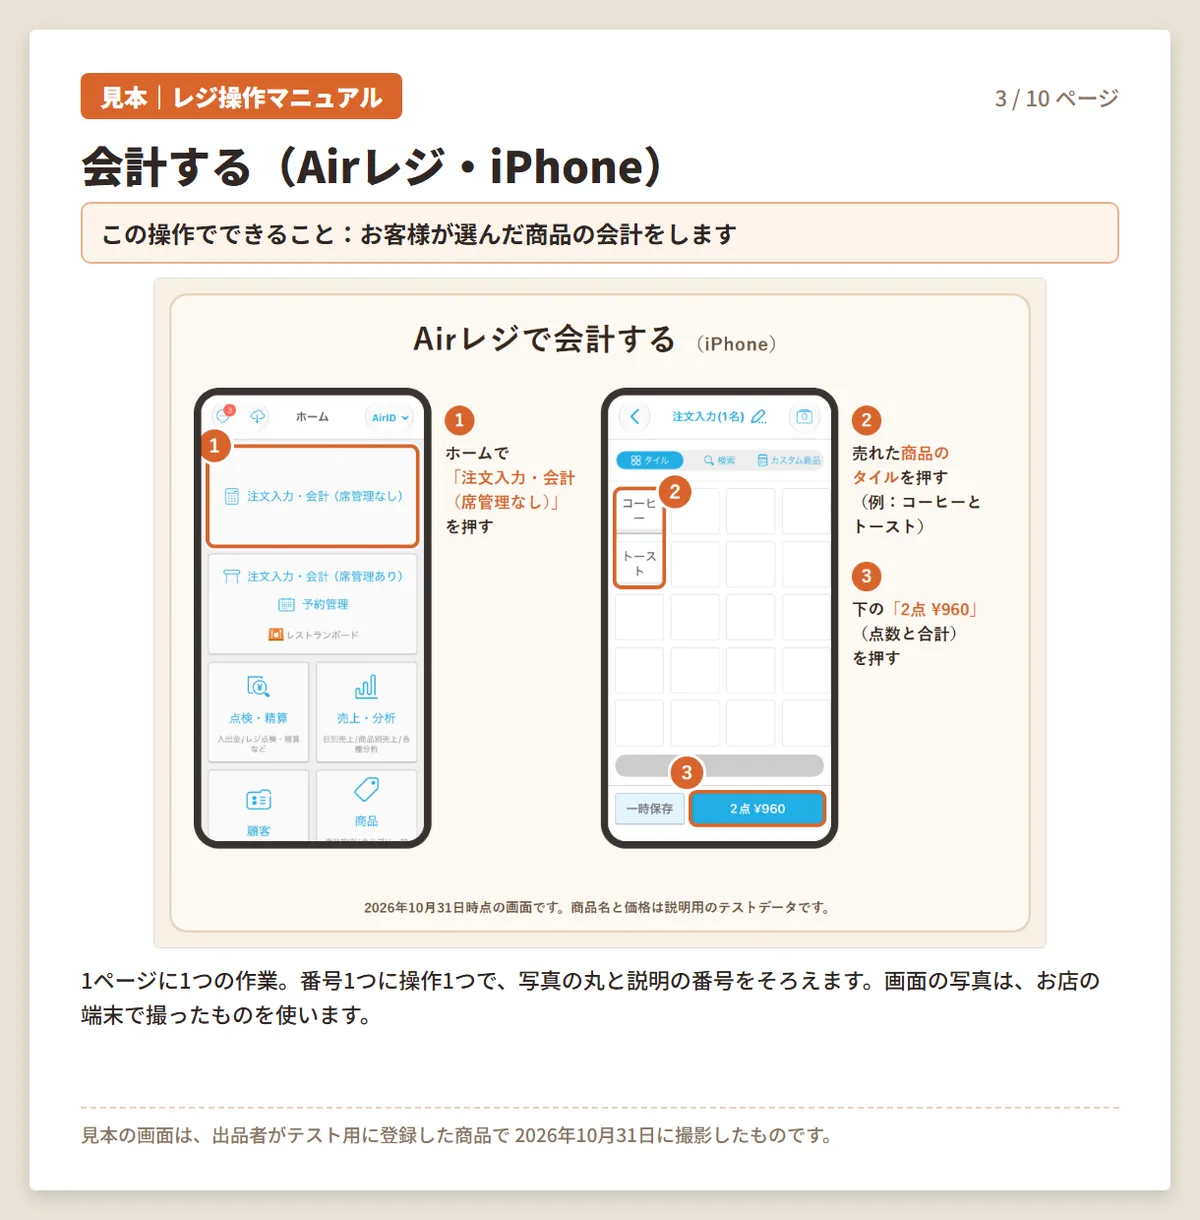
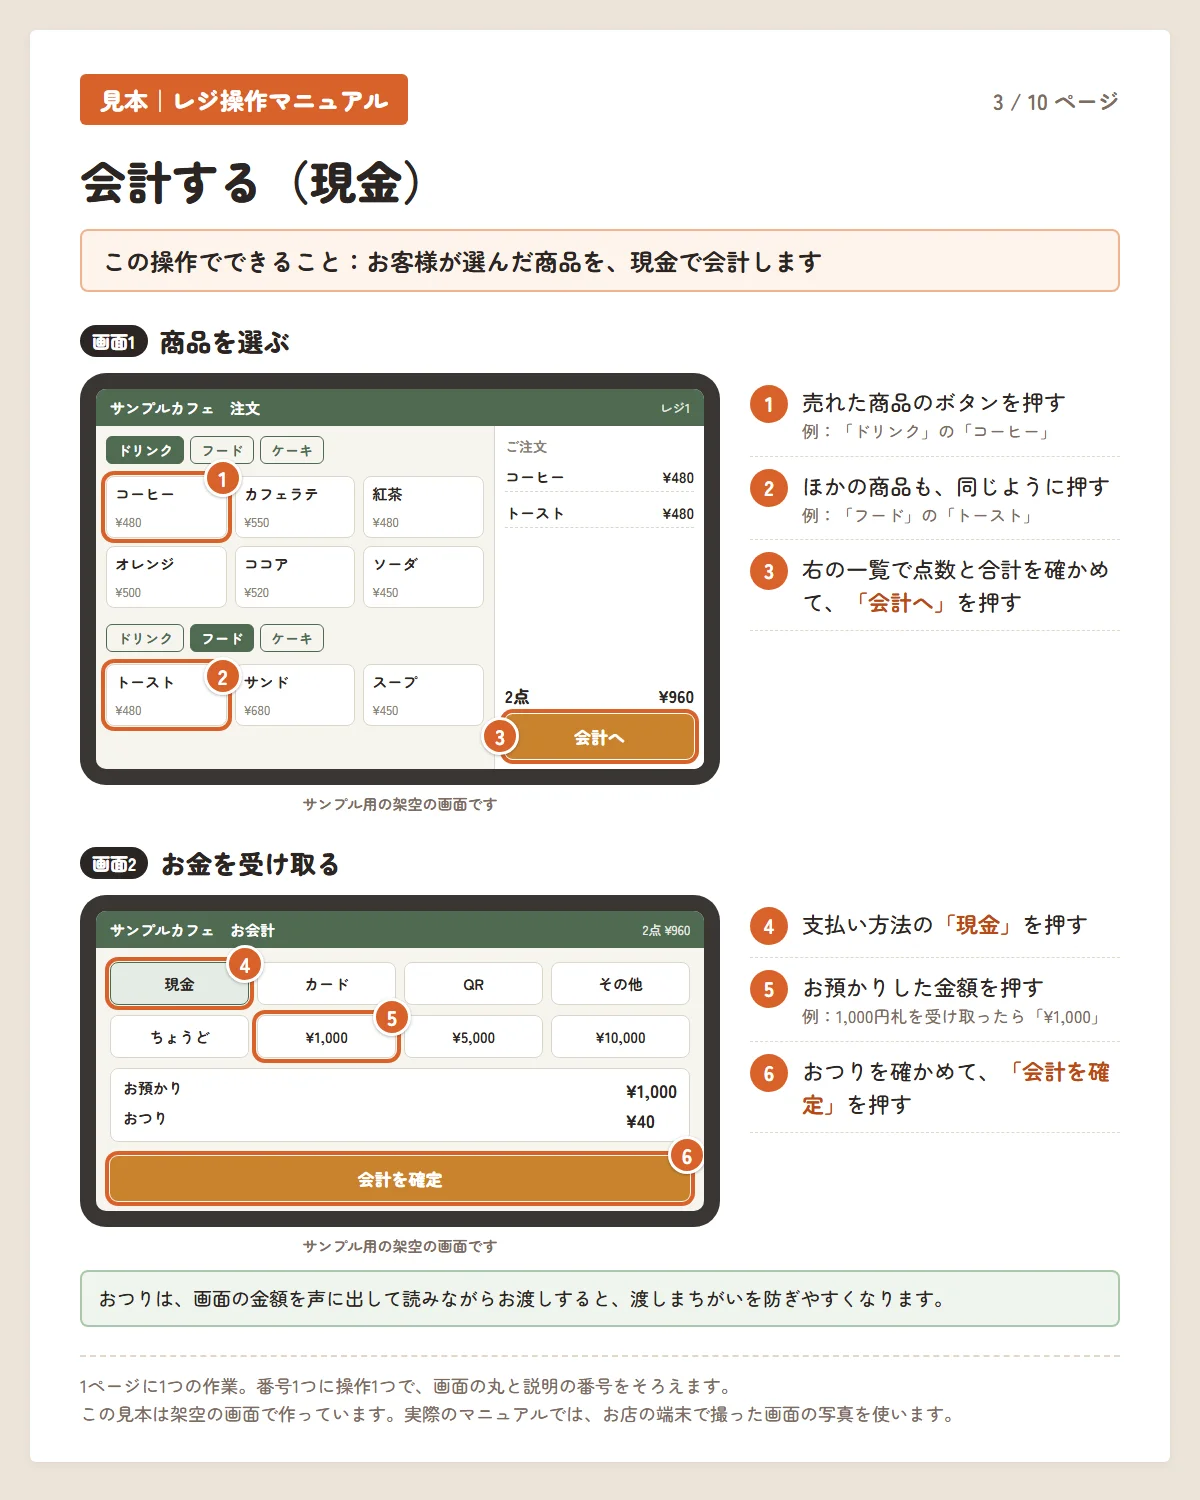
③マニュアルの見本を架空の画面に差し替え
Airレジの実際の画面を見本として公開しないルール（Airサービス共通利用約款 第7条）に
合わせ、どの会社にも似せない架空のレジの画面で「会計する（現金）」のページを作り直す。

Changed region(s): [[0.0308, 0.0, 0.9558, 0.8721], [0.0617, 0.9033, 0.7708, 0.9656], [0.8325, 0.0623, 0.925, 0.0934]]

diff --git a/lib/ownServices.js b/lib/ownServices.js
@@ -73,7 +73,7 @@ export const OWN_SERVICES = {
     priceNote: '10ページまでの目安。1ページ追加ごとに1,000円',
     days: '5日前後',
     samples: [
-      { src: '/images/services/sample-manual.webp', alt: '見本：Airレジで会計する操作を、画面の写真と番号つきの説明で1ページにまとめたマニュアル' },
+      { src: '/images/services/sample-manual.webp', alt: '見本：現金で会計する操作を、架空のレジの画面と番号つきの説明で1ページにまとめたマニュアル' },
       { src: '/images/services/sample-manual-trouble.webp', alt: '見本：レジが止まったときに、止まり方ごとの切り替え先と、予備機に切り替える手順をまとめたページ' },
     ],
     coconalaUrl: 'https://coconala.com/services/4481961',
